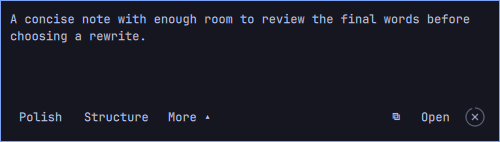
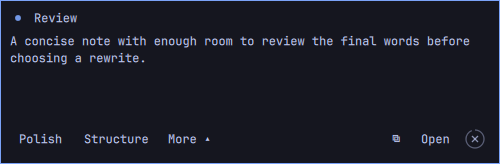
Sync current Mluva recorder and unified installation guide

diff --git a/RecordingOverlay.qml b/RecordingOverlay.qml
@@ -1,12 +1,12 @@
 import QtQuick
 import QtQuick.Layouts
 import Quickshell
-import Quickshell.Wayland
+import Quickshell.Io
 import Quickshell.Hyprland
 import qs.Commons
 import qs.Ui
 
-PanelWindow {
+FloatingWindow {
     id: root
     objectName: "mluva-recording-overlay"
     required property string phase
@@ -17,7 +17,8 @@ PanelWindow {
     property string identifier: ""
     property var options: []
     property string message: ""
-    property var bar
+    readonly property bool hyprlandSession: Quickshell.env("HYPRLAND_INSTANCE_SIGNATURE") !== ""
+    property bool windowRulesReady: !hyprlandSession
     property bool menuOpen: false
     property int reviewDuration: 4000
     property bool showCopy: true
@@ -118,22 +119,50 @@ PanelWindow {
     onIdentifierChanged: { menuOpen = false; resetCountdown(); resetPreviewMotion(); Qt.callLater(syncPreview); }
     onMessageChanged: resetCountdown()
     onCountdownPausedChanged: lastTick = Date.now()
-    visible: active && !dismissed
-    anchors.bottom: true
-    margins.bottom: 24 + (bar && bar.position === "bottom" ? bar.barSize : 0)
+    title: "Mluva recording"
+    visible: active && !dismissed && windowRulesReady
     implicitWidth: Math.min(500, screen ? screen.width - 32 : 500)
-    implicitHeight: body.implicitHeight + 20
+    implicitHeight: recordingHeader.implicitHeight + 20
+        + (transcriptViewport.visible ? lineHeight * previewLines + 6 : 0)
+        + (reviewMessage.visible ? reviewMessage.implicitHeight + 6 : 0)
+        + (reviewActions.visible ? reviewActions.implicitHeight + 6 : 0)
+    minimumSize: Qt.size(Math.min(320, implicitWidth), implicitHeight)
     color: "transparent"
-    exclusionMode: ExclusionMode.Ignore
-    focusable: reviewing
-    mask: Region { item: root.reviewing ? surface : null }
+    // Keep native window controls (including Super+T) and let the compositor
+    // own position and size after mapping. Opening must not steal dictation focus.
+    onWindowConnected: contentItem.Window.window.flags = Qt.Window | Qt.FramelessWindowHint | Qt.WindowStaysOnTopHint
+    onClosed: { dismissed = true; menuOpen = false; }
     Component.onCompleted: {
         previewReady = true;
         syncPreview();
-        if (root.WlrLayershell != null) {
-            root.WlrLayershell.namespace = "mluva-recording-overlay";
-            root.WlrLayershell.layer = WlrLayer.Overlay;
-            root.WlrLayershell.keyboardFocus = Qt.binding(() => root.reviewing ? WlrKeyboardFocus.OnDemand : WlrKeyboardFocus.None);
+    }
+    Process {
+        id: windowRules
+        running: root.hyprlandSession
+        // Replace the active named rule when the plugin reloads.
+        // Float and pin are initial rules; they never override the user's tiling.
+        command: ["hyprctl", "eval",
+            "if mluva_recording_rule then mluva_recording_rule:set_enabled(false) end; "
+            + "mluva_recording_rule = hl.window_rule({match = {class = 'org.quickshell', title = 'Mluva recording'}, "
+            + "float = true, pin = true, no_initial_focus = true, no_follow_mouse = true, decorate = false, "
+            + "move = {'(monitor_w-window_w)/2', '(monitor_h-window_h)-48'}})"]
+        onExited: exitCode => {
+            root.windowRulesReady = exitCode === 0;
+            if (exitCode !== 0) console.warn("Mluva recording window rules could not be installed");
+        }
+    }
+    Connections {
+        target: Hyprland
+        function onRawEvent(event) {
+            if (event.name === "configreloaded" && root.hyprlandSession) windowRules.running = true;
+            if (event.name !== "changefloatingmode") return;
+            const [address, floating] = event.parse(2);
+            if (floating !== "1") return;
+            const window = Hyprland.toplevels.values.find(item => item.address === address
+                && item.title === root.title && item.wayland?.appId === "org.quickshell");
+            // Tiling clears Hyprland's pin. Restore it only when this recorder
+            // returns to floating; setting (rather than toggling) is idempotent.
+            if (window) Hyprland.dispatch("hl.dsp.window.pin({action = 'set', window = 'address:0x" + window.address + "'})");
         }
     }
 
@@ -176,18 +205,22 @@ PanelWindow {
             anchors.margins: 10
             spacing: 6
             RowLayout {
+                id: recordingHeader
+                objectName: "recording-header"
                 width: parent.width
-                visible: !root.reviewing
                 spacing: 8
-                Rectangle {
-                    width: 6
-                    height: 6
-                    radius: 3
-                    color: root.emphasis
+                RecordingLight {
+                    id: recordingDot
+                    objectName: "recording-dot"
+                    active: root.phase === "recording"
+                    animate: root.smoothScrolling && root.scrollDuration > 0
+                    ink: root.emphasis
+                    Accessible.name: root.status
                 }
                 Text {
+                    objectName: "recording-status"
                     Layout.fillWidth: true
-                    text: root.status
+                    text: root.reviewing ? "Review" : root.phase === "recording" ? "" : root.status
                     color: Color.popups.text
                     font.family: Style.font.family
                     font.pixelSize: Style.font.body
@@ -195,6 +228,7 @@ PanelWindow {
                     elide: Text.ElideRight
                 }
                 Text {
+                    objectName: "recording-timer"
                     visible: root.phase === "recording"
                     text: root.timer
                     color: Color.popups.text
@@ -206,7 +240,7 @@ PanelWindow {
                 id: transcriptViewport
                 objectName: "transcript-viewport"
                 width: parent.width
-                height: root.lineHeight * root.previewLines
+                height: root.lineHeight * root.previewLines + Math.max(0, root.height - root.implicitHeight)
                 visible: root.preview.length > 0 || root.phase === "recording"
                 clip: true
                 Item {
@@ -214,12 +248,12 @@ PanelWindow {
                     property real offset: Math.min(0, transcriptViewport.height - transcript.height
                         - root.discardedHeight - transcript.lookAhead)
                     Behavior on offset {
-                        enabled: root.animatePreview && root.visible && root.smoothScrolling
+                        enabled: root.animatePreview && root.visible && root.smoothScrolling && root.scrollDuration > 0
                         SmoothedAnimation {
-                            velocity: root.lineHeight * 1.7
+                            velocity: -1
                             duration: root.scrollDuration
-                            maximumEasingTime: 160
-                            reversingMode: SmoothedAnimation.Immediate
+                            maximumEasingTime: -1
+                            reversingMode: SmoothedAnimation.Eased
                         }
                     }
                 }
@@ -233,7 +267,11 @@ PanelWindow {
                         && lineCount >= root.previewLines
                         ? root.lineHeight * Math.min(1.5, root.scrollLookahead * 0.325) * Math.max(0, Math.min(1, (lastLineFill - 0.72) / 0.28)) : 0
                     width: parent.width
-                    y: previewMotion.offset + root.discardedHeight
+                    // A corrected/committed preview can be shorter than the
+                    // preceding partial. Never paint above its new tail while
+                    // the old scroll animation is still catching up.
+                    y: Math.max(previewMotion.offset + root.discardedHeight,
+                        Math.min(0, transcriptViewport.height - height - lookAhead))
                     text: root.displayedPreview
                     color: Color.popups.text
                     font.family: Style.font.family
@@ -253,6 +291,7 @@ PanelWindow {
                 }
             }
             Text {
+                id: reviewMessage
                 width: parent.width
                 visible: root.reviewing && root.message.length > 0
                 text: root.message
@@ -263,6 +302,7 @@ PanelWindow {
                 wrapMode: Text.Wrap
             }
             RowLayout {
+                id: reviewActions
                 width: parent.width
                 visible: root.reviewing
                 spacing: 2
@@ -350,6 +390,14 @@ PanelWindow {
                     }
                 }
             }
+        }
+        MouseArea {
+            x: body.x
+            y: body.y
+            width: recordingHeader.width
+            height: recordingHeader.height
+            cursorShape: Qt.SizeAllCursor
+            onPressed: root.startSystemMove()
         }
         Rectangle {
             anchors.left: parent.left

diff --git a/Widget.qml b/Widget.qml
@@ -32,8 +32,16 @@ Item {
     readonly property string tooltip: controlFailed ? "Control failed. Start Mluva and inspect its setup status." :
         (labels[phase] + ". Left: start/stop (clipboard only). Right: cancel. Middle: open latest."
         + (phase === "error" ? " Open Mluva for error details." : ""))
-    implicitWidth: bar && bar.vertical ? bar.barSize : (label ? label.implicitWidth + 16 : 26)
+    implicitWidth: bar && bar.vertical ? bar.barSize : content.implicitWidth + 16
     implicitHeight: bar ? bar.barSize : 26
+    activeFocusOnTab: true
+    Accessible.role: Accessible.Button
+    Accessible.name: phase === "recording" ? "Recording · " + elapsed + " seconds · Stop dictation" : labels[phase]
+    Accessible.description: tooltip
+    Accessible.onPressAction: if (phase !== "processing") control("record")
+    Keys.onSpacePressed: if (phase !== "processing") control("record")
+    Keys.onReturnPressed: if (phase !== "processing") control("record")
+    Keys.onEscapePressed: control("cancel")
 
     function control(action) {
         if (controlProcess.running) return;
@@ -96,7 +104,6 @@ Item {
     }
     RecordingOverlay {
         screen: root.QsWindow.window ? root.QsWindow.window.screen : null
-        bar: root.bar
         reviewDuration: root.reviewTimeout * 1000
         showCopy: root.showCopy
         smoothScrolling: root.smoothScrolling
@@ -122,15 +129,38 @@ Item {
         id: controlProcess
         onExited: function(exitCode) { root.controlFailed = exitCode !== 0; }
     }
-    Text {
-        id: label
+    Row {
+        id: content
         anchors.centerIn: parent
-        text: root.bar && root.bar.vertical ? (root.phase === "recording" ? "REC" : "M") : root.labels[root.phase]
-        color: root.phase === "recording" || root.phase === "error" || root.controlFailed ?
-            Color.urgent : (root.bar ? root.bar.foreground : Color.foreground)
-        font.family: Style.font.family
-        font.pixelSize: root.bar && root.bar.vertical ? 10 : 12
-        textFormat: Text.PlainText
+        spacing: 4
+        RecordingLight {
+            anchors.verticalCenter: parent.verticalCenter
+            visible: root.phase === "recording"
+            active: root.phase === "recording"
+            animate: root.smoothScrolling && root.scrollDuration > 0
+            ink: Color.urgent
+            Accessible.ignored: true
+        }
+        Text {
+            id: label
+            anchors.verticalCenter: parent.verticalCenter
+            visible: !(root.bar && root.bar.vertical && root.phase === "recording")
+            text: root.bar && root.bar.vertical ? "M" : root.phase === "recording"
+                ? Math.floor(root.elapsed / 60).toString().padStart(2, "0")
+                    + ":" + (root.elapsed % 60).toString().padStart(2, "0") : root.labels[root.phase]
+            color: root.phase === "error" || root.controlFailed ? Color.urgent
+                : (root.bar ? root.bar.foreground : Color.foreground)
+            font.family: Style.font.family
+            font.pixelSize: root.bar && root.bar.vertical ? 10 : 12
+            textFormat: Text.PlainText
+        }
+    }
+    Rectangle {
+        anchors.fill: parent
+        color: "transparent"
+        border.color: Color.accent
+        radius: 2
+        visible: root.activeFocus
     }
     MouseArea {
         anchors.fill: parent

diff --git a/RecordingLight.qml b/RecordingLight.qml
@@ -1,0 +1,45 @@
+import QtQuick
+
+Item {
+    id: root
+    property bool active: false
+    property bool animate: true
+    property color ink: "#e2554e"
+    property real pulsePhase: 0
+    readonly property real breath: active && animate ? Math.sin(pulsePhase) : 0
+    readonly property real pulseScale: 1 + 0.18 * breath
+    readonly property real pulseOpacity: 0.92 + 0.08 * breath
+    implicitWidth: 16
+    implicitHeight: 16
+    Accessible.role: Accessible.StaticText
+    Accessible.name: active ? "Recording" : "Dictation status"
+
+    // Paint inside a fixed slot: the six-pixel light breathes around its
+    // original size without moving the timer, preview or neighboring widgets.
+    Rectangle {
+        anchors.centerIn: parent
+        width: 14
+        height: 14
+        radius: 7
+        color: Qt.alpha(root.ink, 0.12 + 0.04 * root.breath)
+        scale: 1 + 0.12 * root.breath
+        visible: root.active
+    }
+    Rectangle {
+        anchors.centerIn: parent
+        width: 6
+        height: 6
+        radius: 3
+        color: root.ink
+        scale: root.pulseScale
+        opacity: root.pulseOpacity
+    }
+    NumberAnimation on pulsePhase {
+        running: root.visible && root.active && root.animate
+        from: 0
+        to: Math.PI * 2
+        duration: 2600
+        loops: Animation.Infinite
+        onStopped: root.pulsePhase = 0
+    }
+}

diff --git a/README.md b/README.md
@@ -1,34 +1,41 @@
 # Mluva for Omarchy
 
-**Speak freely. Stay in flow.**
+Five lines of live dictation, a preview that follows your theme, and Polish or Structure when you finish. Your original and completed rewrites stay together in [Mluva](https://github.com/1vecera/Mluva).
 
-Five lines of live dictation, a translucent preview that follows your theme, and Polish or Structure when you finish. Your original and every completed rewrite stay together in [Mluva](https://github.com/1vecera/Mluva).
+![Mluva conversation workspace and Omarchy widget](preview.png)
 
-![Mluva 0.3.0's real Omarchy review widget, captured with synthetic fixture text](preview.png)
+This community Quickshell plugin is part of Mluva's daily-tested Omarchy workflow and is not an official Omarchy product.
 
-This is the community Quickshell plugin `mluva.dictation`, exported from Mluva **v0.3.0**. The integration is **Experimental** while live Hyprland acceptance is completed. It is not an official Omarchy product.
+## Install the app and widget together
 
-## Install
+Use the [Mluva installation command or copyable agent prompt](https://github.com/1vecera/Mluva#install). From a complete source checkout:
 
-Install [Mluva v0.3.0](https://github.com/1vecera/Mluva/releases/tag/v0.3.0) and its [Linux system dependencies](https://github.com/1vecera/Mluva/blob/v0.3.0/linux/README.md) first. Start `mluva`, then add this plugin to Omarchy Quattro:
+```sh
+git clone --depth 1 https://github.com/1vecera/Mluva.git mluva
+cd mluva
+bash install.sh
+```
+
+Setup installs the desktop dependencies, native app and this plugin, then enables it through Omarchy's plugin manager. It preserves settings and conversations and checks plugin customizations before installing. If a later widget operation fails, the native app remains installed; resolve the reported error and rerun setup. Start Mluva from the application menu and choose speech and rewrite providers in Settings. Cloud accounts, credentials and optional local models are configured separately.
+
+If Mluva is already installed, add only the widget:
 
 ```sh
 omarchy plugin add https://github.com/1vecera/omarchy-mluva.git --enable
 ```
 
-The plugin needs Omarchy's Quickshell shell and the `mluva-shell` executable installed by Mluva. If the shell cannot find that command, set the widget's **Mluva shell executable** setting to the absolute installed path, usually `~/.local/bin/mluva-shell` expanded to your actual home directory.
-
-Plugin installation handles the shell integration. Install and start Mluva separately, and configure F9 and Shift+F9 through the application setup. A previously copied `mluva.dictation` folder must be backed up or removed through `omarchy plugin remove mluva.dictation` before adding this Git-managed copy; the installer refuses duplicate IDs.
+The widget needs Omarchy Quattro's shell, Quickshell 0.3+, Hyprland 0.55+ and the native app's `mluva-shell` command. If that command is absent from the shell's PATH, set **Mluva shell executable** to the full installed path, usually `~/.local/bin/mluva-shell` expanded to your home directory. An old manually copied plugin must be backed up and removed before adding a Git-managed copy. See the [integration guide](https://github.com/1vecera/Mluva/blob/main/docs/omarchy-integration.md).
 
 ## Use
 
-- Left-click the bar widget to start or stop clipboard dictation. Right-click to cancel; middle-click to open the latest conversation.
-- Watch five lines while speaking. The recording surface passes pointer and keyboard input through.
-- After dictation, choose **Polish**, **Structure**, or a saved prompt through **More**. Rewrites keep the original.
-- Completed dictation and rewrites copy automatically by default. Use the compact **Copy** icon to copy the displayed version again, or **Open** to edit it in the full app. Partial rewrites cannot be copied.
-- The review closes after four idle seconds by default. Hover, keyboard focus and menus pause it; rewriting pauses it too. Configure the timeout, Copy icon, smooth scrolling, duration and lookahead in Mluva Settings or its JSON configuration.
+- Left-click the bar widget to start or stop dictation. Right-click cancels; middle-click opens the latest conversation.
+- The recorder opens without taking typing focus. Drag its status row to move it, resize it for more preview space, or focus it and press **Super+T** to tile. Floating mode stays above other windows and across workspaces.
+- After dictation, choose **Polish**, **Structure**, a saved prompt through **More**, **Copy** or **Open**. Rewrites preserve the original; partial replies cannot be copied.
+- The completed-note controls close after four idle seconds by default. Hover, focus, menus and rewriting pause the timer; configure the delay in Mluva's workspace settings.
 
 ## Update or remove
+
+Update your Mluva checkout and rerun `bash install.sh` to update the native app and plugin together. For plugin-only changes:
 
 ```sh
 omarchy plugin update mluva.dictation
@@ -36,16 +43,14 @@ omarchy plugin disable mluva.dictation
 omarchy plugin remove mluva.dictation
 ```
 
-Removal affects the shell plugin. Mluva's application, settings and saved conversations remain separate. The plugin itself does not write your shell configuration; Omarchy's explicit add, enable, update and remove commands manage that state.
+Remove the widget before uninstalling the native app with `mluva-uninstall`. Plugin removal alone preserves the native app, settings and conversations.
 
-## Data and dependencies
+## Data and providers
 
-The QML runs inside your existing shell and invokes `mluva-shell`, which communicates with the local Mluva application over the session bus. The widget receives a bounded volatile text preview, status, elapsed time and conversation/style identifiers. It does not persist or log that stream. It does not make its own network requests or hold provider credentials.
+The widget uses the local Mluva application over the session bus. Its preview is bounded and volatile; it neither logs that text nor makes provider requests or holds credentials. Mluva's selected providers determine where speech and rewriting are processed. Local Whisper recognition does not make cloud rewriting local. [Provider setup and privacy](https://github.com/1vecera/Mluva/blob/main/docs/provider-selection.md).
 
-Mluva sends microphone audio to the selected speech engine: ElevenLabs Scribe, a compatible transcription endpoint, or local Voxtype/Whisper. Local Voxtype recognition runs on your machine. Rewriting and generated titles use native Codex or the configured LiteLLM/OpenAI-compatible service and may send text to that provider. Credentials stay in environment variables; provider usage or account costs are separate from this open-source plugin. See the [provider and Live rewrite guide](https://github.com/1vecera/Mluva/blob/v0.3.0/docs/providers-and-live-rewrite.md).
-
-Automated evidence covers the real QML, application bridge, five-line geometry, scrolling, configurable countdown and review actions in an isolated X11 session. That does not establish physical F9 capture, microphone quality, or live Hyprland focus behavior. Use clipboard delivery; automatic insertion is disabled by default and remains Experimental. The preview shows the released v0.3.0 widget with synthetic fixture content, captured through the production QML acceptance harness on Lenovo/Omarchy.
+Clipboard delivery is the standard workflow. Automatic insertion, Live rewrite and alternative provider routes retain their [feature limits](https://github.com/1vecera/Mluva/blob/main/docs/feature-maturity.md).
 
 ## Source and license
 
-Apache-2.0; see [LICENSE](LICENSE). The QML and manifest are copied byte-for-byte from Mluva's tagged source. [SOURCE.json](SOURCE.json) records the exact commit and file hashes. Improvements belong in the [Mluva repository](https://github.com/1vecera/Mluva), under `linux/quickshell/mluva.dictation`; this repository is its installable distribution.
+[Apache License 2.0](LICENSE). The QML and manifest are copied from [Mluva 8737791](https://github.com/1vecera/Mluva/tree/8737791e46838ee7a8d704d1796036a73ba33f06/linux/quickshell/mluva.dictation); [SOURCE.json](SOURCE.json) records the source commit, release tag when applicable and hashes. Improvements belong in [Mluva's plugin source](https://github.com/1vecera/Mluva/tree/main/linux/quickshell/mluva.dictation).
